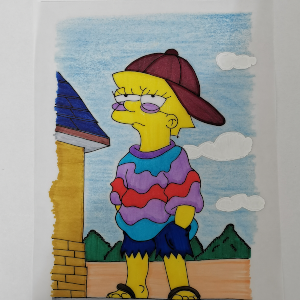
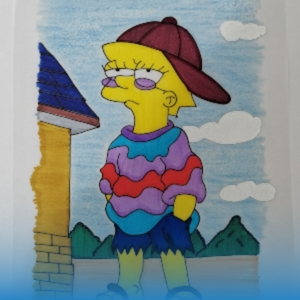
produto 19:07

diff --git a/HechoPorMy/produtos_Gabriela.html b/HechoPorMy/produtos_Gabriela.html
@@ -38,35 +38,53 @@
 
         <section id="container">
             <div class="produto">
-                <img src="./assets/oliviaypopeye.jpg" alt="produto1">
+                <img src="./assets/her.png" alt="produto1">
+                <h4>Her</h4>
+                <h5>R$ 80</h5>
+                <a href="">adicionar ao carrinho</a>
+            </div>
+
+            <div class="produto">
+                <img src="./assets/oliviaypopeye.png" alt="produto2">
                 <h4>Olivia e Popeye</h4>
-                <h6>R$ 80</h6>
+                <h5>R$ 85</h5>
                 <a href="">adicionar ao carrinho</a>
             </div>
 
             <div class="produto">
-                <img src="./assets/lisasimpsom.png" alt="produto2">
+                <img src="./assets/vaidartudocerto.png" alt="produto3">
+                <h4>Vai dar tudo certo</h4>
+                <h5>R$ 70</h5>
+                <a href="">adicionar ao carrinho</a>
+            </div>
+
+            <div class="produto">
+                <img src="./assets/lisasimpsom.png" alt="produto4">
                 <h4>Lisa Simpsom</h4>
-                <h6>R$ 55</h6>
-                <a href="">adicionar ao carrinho</a>
-            </div>
-
-            <div class="produto">
-                <img src="./assets/vaidartudocerto.jpg" alt="produto3">
-                <h4>Vai dar tudo certo</h4>
-                <h6>R$ 70</h6>
-                <a href="">adicionar ao carrinho</a>
-            </div>
-
-            <div class="produto">
-                <img src="./assets/vaidartudocerto.jpg" alt="produto4">
-                <h4>Vai dar tudo certo</h4>
-                <h6>R$ 70</h6>
+                <h5>R$ 65</h5>
                 <a href="">adicionar ao carrinho</a>
             </div>
             
         </section>
     </body>
+
+    <footer>
+        <div class="ganhe-dinheiro">
+            <h3>ganhe dinheiro com sua arte!</h3>    
+        </div>
+      
+        <div id="redes-sociais">
+            <div>
+            <a href="https://www.facebook.com/gabcruzti/" target="_blank"><img src="./assets/facebook.png" alt="Logo Facebook"></a>
+            <a href="https://www.instagram.com/hechopormy/" target="_blank"><img src="./assets/instagram.png" alt="Logo Instagram"></a>
+            </div>            
+                
+        </div>
+        <h5>Copyright © 2022 | feito por Gabriela & Guilherme</h4>
+        <div>
+
+        </div>
+    </footer>
 
 
     <button id="botao-wsp">

diff --git a/HechoPorMy/css/style_produtos.css b/HechoPorMy/css/style_produtos.css
@@ -11,20 +11,21 @@ html body{
     text-align: center;
     width: 100%;
     background-color: #c0a9e2;
-    height: 26px;
+    height: 33px;
     position: fixed;
+    padding: 5px;
 }
 
 #cabecalo {
     display:grid;
     grid-template-columns: 70% 15% 15%;
     font-family:'Sensation';
-    color:#00b7ff;
+    color:#c0a9e2;
     width: 100%;
-    height: 95px;
+    height: 50px;
     background-color: #fff;
     margin-top: 0%;
-    
+    padding: 25px;
 }
 
 body {
@@ -37,7 +38,7 @@ body {
 
 #container {
     width: 100%;
-    height: 850px;
+    height: 530px;
     display: flex;
     flex-wrap: nowrap;
     justify-content: center;
@@ -46,7 +47,7 @@ body {
 
 #container .produto {
     width: 300px;
-    height: 400px;
+    height: 420px;
     border-radius: 8px;
     box-shadow: 0 2px 2px rgba(0, 0, 0, 0.2);
     overflow: hidden;
@@ -63,8 +64,8 @@ body {
 }
 
 #container .produto img {
-    width: 280px;
-    height: 240px;
+    width: 260px;
+    height: 260px;
 }
 
 #container .produto h4 {
@@ -73,9 +74,10 @@ body {
 
 }
 
-#container .produto h6 {
+#container .produto h5 {
     font-weight: 500;
     font-family: 'OpenSans';
+    
 }
 
 #container .produto a {

diff --git a/HechoPorMy/css/style_home.css b/HechoPorMy/css/style_home.css
@@ -25,14 +25,6 @@ body {
     
 }
 
-.produtos:hover {
-    border: 2px solid #00b7ff;
-}
-
-.artistas:hover {
-    border: 2px solid #00b7ff;
-}
-
 
 .logo {
     font-family:'Sensation';
@@ -84,10 +76,14 @@ body {
     margin: 50px;
     line-height: 150px;
     border: 5em;
+    border-radius: 8px;
+    box-shadow: 0 2px 2px rgba(0, 0, 0, 0.2);
 }
 
 .grid div:hover {
-    border: 2px solid #00b7ff;
+    transform: translateY(-15px);
+    box-shadow: 0 12px 16px rgba(0, 0, 0, 0.2);
+    
 }
 
 footer {
